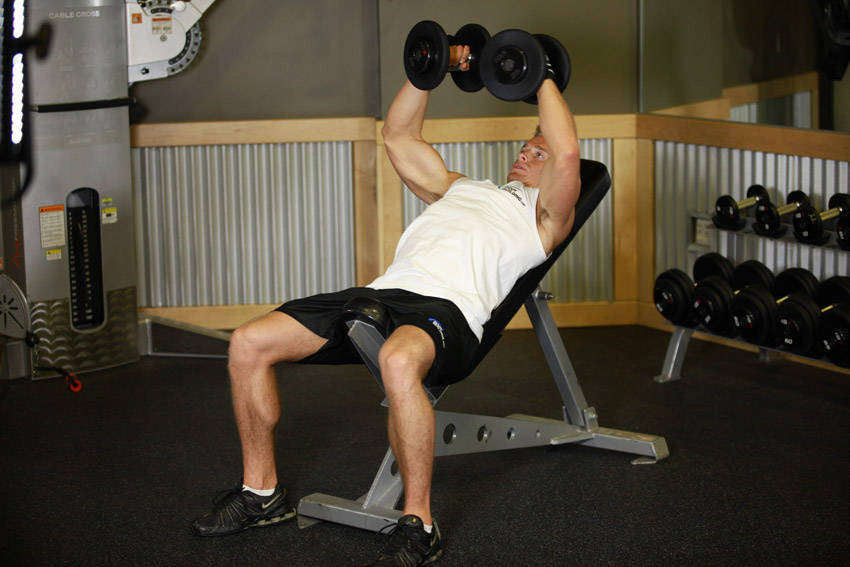
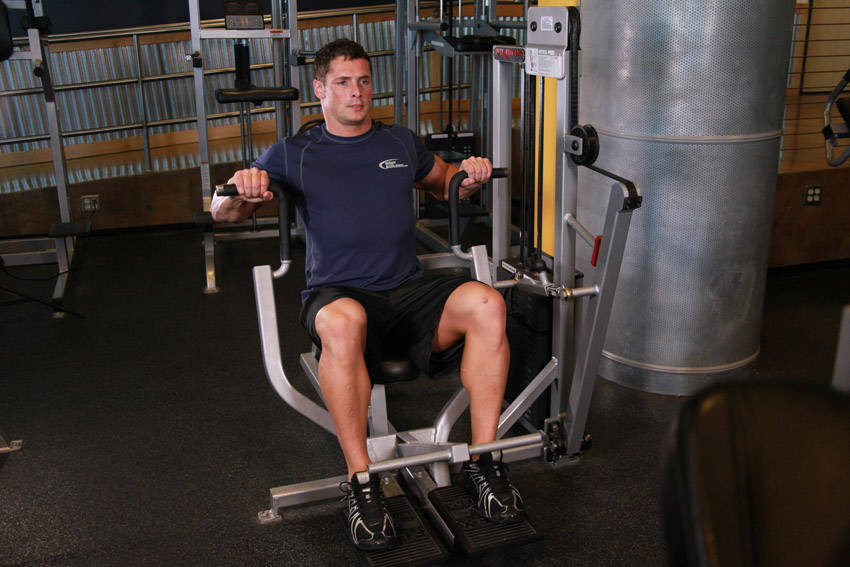
fix: restore history by adding rename migration SQL, fix exercise images

diff --git a/README.md b/README.md
@@ -256,6 +256,12 @@ ALTER TABLE profiles ADD COLUMN IF NOT EXISTS weekly_goal INTEGER DEFAULT 4;
 ALTER TABLE exercise_logs ADD COLUMN IF NOT EXISTS muscle_group TEXT;
 ALTER TABLE workout_sessions ALTER COLUMN muscle_group DROP NOT NULL;
 ```
+4. Jika sudah punya data lama, jalankan migration rename exercise:
+```sql
+-- supabase-migration-rename-exercises.sql
+UPDATE exercise_logs SET exercise_name = 'Cable Rope Face Pull'        WHERE exercise_name = 'Rear Delt Fly';
+UPDATE exercise_logs SET exercise_name = 'Dumbbell Incline Bench Press' WHERE exercise_name = 'Incline Press Machine';
+```
 4. Buka **Authentication → Providers → Email** → matikan **Confirm email**
 5. Aktifkan **Anonymous Sign-ins** (opsional)
 
